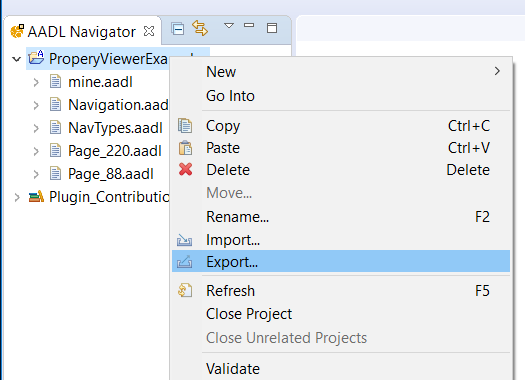
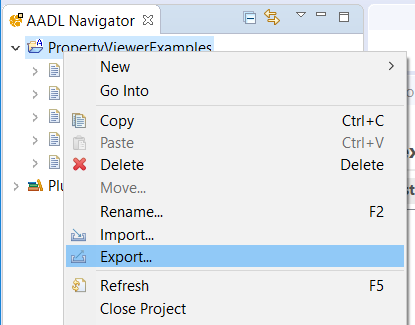
Fixed a bunch of problems related to the fact that I had misnamed the example property "ProperyViewerExamples" (without the 't').

diff --git a/org.osate.help/markdown/OSATEUserGuide.html b/org.osate.help/markdown/OSATEUserGuide.html
@@ -16,7 +16,7 @@
 <li>A row of toolbars along the top.</li><li>A <em>navigator</em> view along the left-hand side.  This view displays all the available projects and their contents.  OSATE uses a customized <code>AADL Navigator</code> that also displays globally available AADL property sets provided by plug-ins.</li><li>An <em>outline</em> view on the right-hand side.  This view interacts with the active editor window and displays a structured semantic or syntactic outline of the contents of the editor.  It can be used to quickly navigate the contents of the editor.</li><li>The <code>Problems</code> view along the bottom.  This view is used to interact with markers.</li></ul><p>The rest of the center space of the workbench is used to hold editor windows.  This layout can be seen in the workbench window below that is set to the OSATE <code>AADL</code> perspective:</p><p><img src="images/OSATEUserGuide/workbench.png" alt="Workbench"></p><p>There are several other features of the workbench visible in the above image:</p><ul>
 <li>Views can have their own toolbars.</li><li>Views can be stacked into tabbed layouts.  This is visible along the bottom of the workbench where there are tabs for the <code>Problems</code>, <code>Properties</code>, and <code>AADL Property Values</code> views.</li><li>Views can have their own menus.  The menu is accessible by clicking on the downward facing triangle in the top right of the toolbar of the view: <img src="images/OSATEUserGuide/ViewMenu.png" alt="">.</li><li>Views can be minimized or maximized within the workbench window using the toolbar buttons <img src="images/OSATEUserGuide/MinMax.png" alt="">.</li><li>Views can be closed by clicking on the “x” icon on their tab.</li></ul><h4 id="commands"><a name="commands" href="#commands"></a>Commands</h4><p>As an Eclipse-based application, OSATE makes its commands available in multiple modalities.  A single command is usually available</p><ul>
 <li>In an OSATE menu.</li><li>In a toolbar.</li><li>In a context menu, when appropriate to the currently selected object.  (A context menu is uaually opened with a right-click in Windows, or a <code>CTRL</code> + click in MacOS.)</li></ul><h4 id="missing-views"><a name="missing-views" href="#missing-views"></a>Missing Views</h4><p>If you accidently close a view or simply want to add an additional view to the workbench, you can open a view by using the <code>Window &gt; Show View</code> submenu in the main OSATE menubar:</p><p><img src="images/OSATEUserGuide/ShowView.png" alt="Show View Menu"></p><p>This menu is populated with views specific to the current perspective.  Here we see the <code>AADL Navigator</code> and <code>AADL Property Values</code> views specific to the <code>AADL</code> perspective.  If you do not see the view you need listed, choose the <code>Other...</code> option to bring up the <code>Show View</code> dialog:</p><p><img src="images/OSATEUserGuide/ShowViewDialog.png" alt="Show View Dialog"></p><p>This dialog lists all the views avaible.  Views are grouped by category.  Above we see the <code>Error Log</code> view in the <code>General</code> category being selected for use.</p><h4 id="reseting-the-perspective"><a name="reseting-the-perspective" href="#reseting-the-perspective"></a>Reseting the Perspective</h4><p>If you open/close too many views, rearrange your views, or otherwise put the workbench in a state that you find unusable, you can bring it back to good state by resetting the perspective.  In the case of OSATE, you should reset the <code>AADL</code> perspective by bringing up the <em>context menu</em> on the <code>AAADL</code> perspecitive icon on the right side of the workbench toolbar, and selecting <code>reset</code>:</p><p><img src="images/OSATEUserGuide/ResetPerspective.png" alt="Reset Perspective"></p><p>This returns the arrangement of views and editors to a the default layout defined by the perspective.</p><h3 id="osate-preferences"><a name="osate-preferences" href="#osate-preferences"></a>OSATE Preferences</h3><p>OSATE (via its Eclipse underpinnings) has an exhaustive set of preferences that can be changed.  These are accessed via the <code>Preferences</code> window.  Access to preferences follows the host operating system standards:</p><ul>
-<li>For windows, the preferences are under <code>Window &gt; Preferences</code>.</li><li>For MacOS, the prefernece are under <code>OSATE &gt; Preferences...</code>.</li></ul><p>This brings up a window with a hierarchical list of settings on the left-hand side.</p><p>One setting of immediate interest is found under <code>General &gt; Startup and Shutdown</code>.  By default the setting <code>Refresh workspace on startup</code> is not enabled.  Enabling it ensures that when starting up, OSATE updates its records to reflect any changes to the files in the workspace that may have occurred outside OSATE.</p><p><img src="images/OSATEUserGuide/Preferences.png" alt="Preferences Window"></p><h3 id="manual-refresh"><a name="manual-refresh" href="#manual-refresh"></a>Manual Refresh</h3><p>You can manually initiate a refresh by selecting projects, folders, or files in the <code>AADL Navigator</code> and invoking <code>File &gt; Refresh</code> in the main menu or <code>Refresh</code> in the navigator’s context menu.</p><h2 id="creating-an-aadl-project"><a name="creating-an-aadl-project" href="#creating-an-aadl-project"></a><span id="project">Creating an AADL Project</span></h2><p>Let us create an AADL Project in OSATE.  To create a new AADL project in the workspace, click on the <code>New AADL Project</code> button <img src="images/OSATEUserGuide/NewAadlProjectButton.png" alt="New AADL Project icon"> in the OSATE toolbar.  A new project wizard will open:</p><p><img src="images/OSATEUserGuide/NewAadlProjectWizard.png" alt="New Project Wizard"></p><p>Enter <code>MyFirstAADLProject</code> as the project name and click on the <code>Finish</code> button.  The wizard creates a new project.  It is visible in the <code>AADL Navigator</code> view.  Note the small <code>A</code> on the project that indicates it is an AADL project:</p><p><img src="images/OSATEUserGuide/NewProjectNavigator.png" alt="New Project Wizard"></p><h3 id="built-in-proprety-sets"><a name="built-in-proprety-sets" href="#built-in-proprety-sets"></a>Built-in Proprety Sets</h3><p>Also visible in the view is a library icon labeled <code>Plugin_Contributions</code>.  This view element collects all the AADL property sets available by default in OSATE:</p><p><img src="images/OSATEUserGuide/Plugin_Contributions.png" alt="Plugin Contributions"></p><p>The <code>Predeclared_Property_Sets</code> are those that are specified by the AADL standard document and are provided by the core OSATE environment.  The others are specified in other documents and provided by plug-ins to OSATE.  For example <code>ARINC653</code> contains property sets specified in the ARINC653 annex to AADL and is provided by a plug-in.</p><p>Property sets in <code>Plugin_Contribution</code> may be used by any project in the workspace by providing the appropriate <code>with</code> clause in the package specification.  In particular, <em>they do not need to be copied into a project to be used</em>.</p><h3 id="creating-an-aadl-package"><a name="creating-an-aadl-package" href="#creating-an-aadl-package"></a>Creating an AADL Package</h3><p>Now that we have an AADL project in the workspace, we can populate it with an AADL Package:</p><ol>
+<li>For windows, the preferences are under <code>Window &gt; Preferences</code>.</li><li>For MacOS, the prefernece are under <code>OSATE &gt; Preferences...</code>.</li></ul><p>This brings up a window with a hierarchical list of settings on the left-hand side.</p><p>One setting of immediate interest is found under <code>General &gt; Startup and Shutdown</code>.  By default the setting <code>Refresh workspace on startup</code> is not enabled.  Enabling it ensures that when starting up, OSATE updates its records to reflect any changes to the files in the workspace that may have occurred outside OSATE.</p><p><img src="images/OSATEUserGuide/Preferences.png" alt="Preferences Window"></p><h3 id="manual-refresh"><a name="manual-refresh" href="#manual-refresh"></a>Manual Refresh</h3><p>You can manually initiate a refresh by selecting projects, folders, or files in the <code>AADL Navigator</code> and invoking <code>File &gt; Refresh</code> in the main menu or <code>Refresh</code> in the navigator’s context menu.</p><h2 id="creating-an-aadl-project"><a name="creating-an-aadl-project" href="#creating-an-aadl-project"></a><span id="project">Creating an AADL Project</span></h2><p>Let us create an AADL Project in OSATE.  To create a new AADL project in the workspace, click on the <code>New AADL Project</code> button <img src="images/OSATEUserGuide/NewAadlProjectButton.png" alt="New AADL Project icon"> in the OSATE toolbar.  A new project wizard will open:</p><p><img src="images/OSATEUserGuide/NewAadlProjectWizard.png" alt="New Project Wizard"></p><p>Enter <code>MyFirstAADLProject</code> as the project name and click on the <code>Finish</code> button.  The wizard creates a new project.  It is visible in the <code>AADL Navigator</code> view.  Note the small <code>A</code> on the project that indicates it is an AADL project:</p><p><img src="images/OSATEUserGuide/NewProjectNavigator.png" alt="New Project Wizard"></p><h3 id="built-in-property-sets"><a name="built-in-property-sets" href="#built-in-property-sets"></a>Built-in Property Sets</h3><p>Also visible in the view is a library icon labeled <code>Plugin_Contributions</code>.  This view element collects all the AADL property sets available by default in OSATE:</p><p><img src="images/OSATEUserGuide/Plugin_Contributions.png" alt="Plugin Contributions"></p><p>The <code>Predeclared_Property_Sets</code> are those that are specified by the AADL standard document and are provided by the core OSATE environment.  The others are specified in other documents and provided by plug-ins to OSATE.  For example <code>ARINC653</code> contains property sets specified in the ARINC653 annex to AADL and is provided by a plug-in.</p><p>Property sets in <code>Plugin_Contribution</code> may be used by any project in the workspace by providing the appropriate <code>with</code> clause in the package specification.  In particular, <em>they do not need to be copied into a project to be used</em>.</p><h3 id="creating-an-aadl-package"><a name="creating-an-aadl-package" href="#creating-an-aadl-package"></a>Creating an AADL Package</h3><p>Now that we have an AADL project in the workspace, we can populate it with an AADL Package:</p><ol>
 <li>Select the project <code>MyFirstAADLProject</code>.</li><li>Click on the <code>New AADL Package</code> button <img src="images/OSATEUserGuide/NewAadlPackageButton.png" alt="New AADL Project icon"> in the OSATE toolbar to bring up the AADL package wizard:<br><img src="images/OSATEUserGuide/AadlPackageWizard.png" alt="AADL Package Wizard"></li><li>Enter<code>aadlmodel</code> for the package name and click on <code>Finish</code>.</li></ol><p>OSATE creates the file <code>aadlmodel.aadl</code> in the project, populates it with a skeleton package declaration, and opens it in the AADL text editor:</p><p><img src="images/OSATEUserGuide/EmptyPackage.png" alt="New Empty Package"></p><p>Note that the wizard has radio buttons that allow you to specify whether the package should be opened in the text editor or the graphical editor.  By default the text editor is selected.</p><p>Replace the contents of the editor with the simple model below:</p><pre><code data-origin="<pre><code>package aadlmodel
 public
     process MyProcess
@@ -49,7 +49,7 @@ end aadlmodel;
 <p>The list of completions also shows two more options.   These are <em>templates</em> that insert a more complete system type or system implementation declaration into the text.</p>
 </li><li><p>Autocompletion also works with declared names.  For example, below shows the result of activating autocomplete after typing <code>My</code>:<br><img src="images/OSATEUserGuide/AutoComplete2.png" alt="Autocomplete"><br>In this case, autocomplete suggests the system type name <code>MySystem</code>.  In particular, it <em>does not</em> suggest the process type name <code>MyProcess</code> because it would be erroneous in the context of declaraing a system implementation.</p>
 </li></ul><h4 id="error-markers"><a name="error-markers" href="#error-markers"></a>Error Markers</h4><p>As you type you will notice that the editor underlines syntax errors in red.  The right sidebar of the editor will also show a small red<code>x</code> indicating that an <em>error marker</em> exists for that line of text.  For example, before the declaration of the system implementation is completed, the package has several errors:</p><p><img src="images/OSATEUserGuide/Errors.png" alt="Error Markers"></p><p>The details of the error markers are visible in the <code>Problems</code> view.  This is a standard Eclipse view.  Despite the name <em>Problems</em>, not all markers necessarily mark problems or errors.  Some OSATE analsyses generate information markers (visible with a blue <code>i</code>) as output.</p><p>The details of a marker can also be seen by hovering over the icon in the editor sidebar.</p><p>Also note that the AADL project is marked in the navigator view to indicate that its contents have error markers.</p><h4 id="save-the-package"><a name="save-the-package" href="#save-the-package"></a><span id="save">Save the Package</span></h4><p>Once you have the package entered into the editor, save it.  It should be error-free, without any markers:</p><p><img src="images/OSATEUserGuide/FinalPackage.png" alt="Good Package"></p><h2 id="navigating-a-model"><a name="navigating-a-model" href="#navigating-a-model"></a><span id="navigation">Navigating a Model</span></h2><p>OSATE provides many mechanisms for navigating through a model.</p><h3 id="the-`outline`-view"><a name="the-`outline`-view" href="#the-`outline`-view"></a>The <code>Outline</code> View</h3><p>The <code>Outline</code> view shows the model in the text editor as a tree structure. Selecting an element in the outline view causes the editor to move to that object in the text. You can disable this synchronization between the outline and the text with the double arrow button in the view’s toolbar. You can also have the view sorted alphabetically instead of the order in the text by selecting the “a to z” icon.</p><p><img src="images/OSATEUserGuide/OutlineToolbar.png" alt="Outline View Toolbar"></p><h3 id="search"><a name="search" href="#search"></a>Search</h3><p>You can search the text of a model using the standard Eclipse search facility under <code>Search &gt; Search...</code> in the menu bar.  This brings up a search window.  It can also be used for search and replace.  The scope of the search can also be specified.  In most cases you just want to make sure that the <code>File Search</code> tab is selected, and enter your search term in the <code>Containing text</code> field.  For example, the below will search for the string <code>end</code> in the project we created above:</p><p><img src="images/OSATEUserGuide/SearchWindow.png" alt="Search Window"></p><p>When you click on the <code>Search</code> button, Eclipse performs the search.  The results are displayed in the <code>Search</code> view:</p><p><img src="images/OSATEUserGuide/SearchView.png" alt="Search View"></p><p>Double-clicking on a result in the view opens the editor to the location of the match.  All the matches are highlighted in the editor as well.</p><h3 id="hyperlinks"><a name="hyperlinks" href="#hyperlinks"></a>Hyperlinks</h3><p>All references to names in the AADL editor are linked to their declaration.  <code>CTRL</code>-clicking on the name will turn it into an active hyperlink and move the editor selection to the declaration of the name.  For example, <code>CTRL</code>-clicking on <code>MyProcess</code> in the subcomponent declaration of <code>MySystem</code> <a href="#save">above</a>, moves the selection to the declaration of <code>MyProcess</code> earlier in the package.</p><h3 id="quick-outline"><a name="quick-outline" href="#quick-outline"></a>Quick Outline</h3><p>A <em>quick outline</em> can be brought up in the AADL text editor by typing <code>CTRL + o</code>.  The package outline will appear in a small window with a search box.  You can filter the displayed outline elements by typing in the search box:</p><p><img src="images/OSATEUserGuide/QuickOutline.png" alt="Quick Outline"></p><p>Selecting an item in the outline will move the editor to the selected element.</p><h3 id="navigation-history"><a name="navigation-history" href="#navigation-history"></a>Navigation History</h3><p>Much like a web browser, when you navigate to different locations within a file, follow references/links to other files, go to the location of a marker, or go to the result of a search, Eclipse keeps a history. Yellow navigation arrow buttons in the toolbar let you move back and forth through the history:</p><p><img src="images/OSATEUserGuide/NavigationHistory.png" alt="Navigation Toolbar"></p><h2 id="instance-models"><a name="instance-models" href="#instance-models"></a><span id="instance">Instance Models</span></h2><p>Most analyses are executed over the <em>instance model</em> of a system.  The instance model represnts the complete nested architecture of a system, and is built from a root system implementation classifier.</p><p>To create an instance model of your system</p><ol>
-<li>Open the AADL package that conatins the system implementation you want to instantiate.  For this example, we open <code>aadlmodel</code> from <a href="#save">above</a>.</li><li>Select the system implementation in the <code>Outline</code> view.  Here we select <code>MySystem.i</code>.</li><li>Select <code>Instantiate</code> from the context menu.<br><img src="images/OSATEUserGuide/Instantiate.png" alt="Context Menu"></li></ol><p>The instance model is created and placed in directory called <code>instances</code> in the project.  This directory is created if it does not already exist.  The instance model built from system implementation <code>my::package::system.impl</code> is named <code>my_package_systemm_impl_Instance.aaxl2</code>.  This is an xml-based model description that is not readily readable by people.  It can be opened and viewed in a hierachical manner in OSATE.  Here we see the model we just generated:</p><p><img src="images/OSATEUserGuide/InstanceModel.png" alt="Context Menu"></p><h3 id="back-links"><a name="back-links" href="#back-links"></a>Back-links</h3><p>Each element in the instance model links back to declarative model element that it is derived from.  You can follow this link by selecting an element of the instance model in the instance model editor or in the <code>Outline</code> view and choosing <code>Goto Instance Object Source</code> in the context menu.  For example, the process <code>sub1</code> element of the instance model links to the <code>sub1</code> subcomponent declaration in the declarative package:</p><p><img src="images/OSATEUserGuide/ObjectSource.png" alt="Context Menu"></p><h3 id="errors"><a name="errors" href="#errors"></a>Errors</h3><p>The instantiation process may generate error and warning markers on the instantiated model.  This occurs, for example, when the declarative model is underspecified or has inconsistencies.</p><h2 id="importing-and-exporting-projects"><a name="importing-and-exporting-projects" href="#importing-and-exporting-projects"></a><span id="in_out">Importing and Exporting Projects</span></h2><p>Eclipse can import/export projects from/to <code>.zip</code> files.  This is a simple way to share your work with other users, but not the best approach for collaborative work where you would want to use a version control system.</p><h3 id="how-to-import-a-project"><a name="how-to-import-a-project" href="#how-to-import-a-project"></a><span id="import">How To Import a Project</span></h3><p>Here we show how to import an AADL project containing <code>.aadl</code> model files, but these instructions are not specific to OSATE or working with AADL source files.</p><blockquote>
+<li>Open the AADL package that conatins the system implementation you want to instantiate.  For this example, we open <code>aadlmodel</code> from <a href="#save">above</a>.</li><li>Select the system implementation in the <code>Outline</code> view.  Here we select <code>MySystem.i</code>.</li><li>Select <code>Instantiate</code> from the context menu.<br><img src="images/OSATEUserGuide/Instantiate.png" alt="Context Menu"></li></ol><p>The instance model is created and placed in directory called <code>instances</code> in the project.  This directory is created if it does not already exist.  The instance model built from system implementation <code>my::package::system.impl</code> is named <code>my_package_systemm_impl_Instance.aaxl2</code>.  This is an xml-based model description that is not readily readable by people.  It can be opened and viewed in a hierachical manner in OSATE.  Here we see the model we just generated:</p><p><img src="images/OSATEUserGuide/InstanceModel.png" alt="Context Menu"></p><h3 id="back-links"><a name="back-links" href="#back-links"></a>Back-links</h3><p>Each element in the instance model links back to declarative model element that it is derived from.  You can follow this link by selecting an element of the instance model in the instance model editor or in the <code>Outline</code> view and choosing <code>Goto Instance Object Source</code> in the context menu.  For example, the process <code>sub1</code> element of the instance model links to the <code>sub1</code> subcomponent declaration in the declarative package:</p><p><img src="images/OSATEUserGuide/ObjectSource.png" alt="Context Menu"></p><h3 id="errors"><a name="errors" href="#errors"></a>Errors</h3><p>The instantiation process may generate error and warning markers on the instantiated model.  This occurs, for example, when the declarative model is underspecified or has inconsistencies.</p><h2 id="importing-and-exporting-projects"><a name="importing-and-exporting-projects" href="#importing-and-exporting-projects"></a><span id="in_out">Importing and Exporting Projects</span></h2><p>Eclipse can import/export projects from/to <code>.zip</code> files.  This is a simple way to share your work with other users, but not the best approach for collaborative work where you would want to use a <a href="#git">version control system</a>.  </p><h3 id="how-to-import-a-project"><a name="how-to-import-a-project" href="#how-to-import-a-project"></a><span id="import">How To Import a Project</span></h3><p>Here we show how to import an AADL project containing <code>.aadl</code> model files, but these instructions are not specific to OSATE or working with AADL source files.</p><blockquote>
 <p><strong>Example</strong></p>
 <p>In this section we import a project into the workspace from the archive file <a href="examples/PropertyViewerExamples.zip">PropertyViewerExamples.zip</a>.  Please use the link to download the file to follow along with the instructions below.</p>
 </blockquote><h4 id="open-the-import-wizard"><a name="open-the-import-wizard" href="#open-the-import-wizard"></a>Open the Import Wizard</h4><p>Open the import wizard by selecting <code>Import...</code> from the context menu of the <code>AADL Navigator</code> view:</p><p><img src="images/HowToImportAProject/ContextMenu_Import.png" alt=""></p><p>You should see a dialog like this:</p><p><img src="images/HowToImportAProject/ImportWizard1.png" alt=""></p><p>Select <code>General &gt; Existing Projects into Workspace</code>, and click on the <code>Next &gt;</code> button.</p><p><img src="images/HowToImportAProject/ImportWizard2.png" alt=""></p><h4 id="select-the-project-archive"><a name="select-the-project-archive" href="#select-the-project-archive"></a>Select the Project Archive</h4><p>An <code>Import Projects</code> wizard dialog will open.  (An archive may contain more than one project, although in our example it contains just one.)</p><ol>
@@ -60,20 +60,44 @@ end aadlmodel;
 <p>In this section we export the project that we imported into the workspace in the <a href="#import">previous</a> section.  Below it is assumed that you have a project named <code>PropertyViewerExamples</code> in your workspace.</p>
 </blockquote><h4 id="open-the-export-wizard"><a name="open-the-export-wizard" href="#open-the-export-wizard"></a>Open the Export Wizard</h4><p>Open the export wizard by </p><ol>
 <li>Selecting the project <code>PropertyViewerExamples</code> in the <code>AADL Navigator</code>.</li><li>Selecting <code>Export...</code> from the context menu.</li></ol><p><img src="images/HowToExportAProject/ContextMenu_Export.png" alt=""></p><p>You should see a dialog like this:</p><p><img src="images/HowToExportAProject/ExportWizard1.png" alt=""></p><p>Select <code>General &gt; Archive File</code>, and click on the <code>Next &gt;</code> button.</p><p><img src="images/HowToExportAProject/ExportWizard2.png" alt=""></p><h4 id="create-the-archive"><a name="create-the-archive" href="#create-the-archive"></a>Create the Archive</h4><p>An <code>Archive file</code> wizard dialog will open.</p><ul>
-<li>The top section of the wizard allows you to choose the exact contents of the project to export.  In this case, as in most cases, you do not need to change the default selections; the whole project will be exported.</li><li>The bottom section of the wizard allows to control how the archive file is created.  Again, usually the default values are fine.  In this case, just make sure that <code>Save in zip format</code> is selected.</li><li>In the center of the wizard enter the pathname of the archive file to create, or use the <code>Browse...</code> button to use the file selection dialog to specify the pathname.</li><li>Click on the <code>Finish</code> button to begin the export process.</li></ul><p><img src="images/HowToExportAProject/ArchiveFile.png" alt=""></p><h4 id="use-your-new-archive"><a name="use-your-new-archive" href="#use-your-new-archive"></a>Use Your New Archive</h4><p>The wizard dialog will close when the export process finishes.  The new archive file will be created where you specified.  You can now share this archive with other users.</p><h2 id="analyzing-models"><a name="analyzing-models" href="#analyzing-models"></a><span id="analysis">Analyzing Models</span></h2><p>Once you have a system model, you can use OSATE to analyze the model to confirm that the design meets your intended criteria.  In this section we run a latency analysis over the end-to-end flows of a system.  This section is not meant to be a tutorial on using any specific analysis, but instead is a demonstration of</p><ul>
+<li>The top section of the wizard allows you to choose the exact contents of the project to export.  In this case, as in most cases, you do not need to change the default selections; the whole project will be exported.</li><li>The bottom section of the wizard allows to control how the archive file is created.  Again, usually the default values are fine.  In this case, just make sure that <code>Save in zip format</code> is selected.</li><li>In the center of the wizard enter the pathname of the archive file to create, or use the <code>Browse...</code> button to use the file selection dialog to specify the pathname.</li><li>Click on the <code>Finish</code> button to begin the export process.</li></ul><p><img src="images/HowToExportAProject/ArchiveFile.png" alt=""></p><h4 id="use-your-new-archive"><a name="use-your-new-archive" href="#use-your-new-archive"></a>Use Your New Archive</h4><p>The wizard dialog will close when the export process finishes.  The new archive file will be created where you specified.  You can now share this archive with other users.</p><h3 id="importing-a-project-from-a-git-repository"><a name="importing-a-project-from-a-git-repository" href="#importing-a-project-from-a-git-repository"></a><span id="git">Importing a Project from a Git Repository</span></h3><p>While archive files provide a quick-and-dirty mechanism for sharing projects, the become problematic when you want to collaborate.  It is better to store projects in a version control system (VCS) so that changes to the models can be coordianted.  Eclipse (and thus OSATE) supports all the popular VCS, including <strong>svn</strong> and <strong>git</strong>.  In this section, we show how to import a project from a git repository.</p><h4 id="clean-up-your-workspace-(removing-a-project)"><a name="clean-up-your-workspace-(removing-a-project)" href="#clean-up-your-workspace-(removing-a-project)"></a>Clean Up Your Workspace (Removing a Project)</h4><p>We are going to reimport the <code>PropertyViewerExamples</code> project, but this time using git.  So if you already have the project in your workspace from the <a href="#import">previous section</a>, you will need to delete it:</p><ol>
+<li><p>Select the project in the <code>AADL Navigator</code>.</p>
+</li><li><p>Select <code>Delete</code> in the context menu.<br><img src="images/OSATEUserGuide/DeleteContextMenu.png" alt="Context Menu"><br>(You can also use the <code>Delete</code> key as a shortcut.)</p>
+</li><li><p>OSATE presents a confirmation dialog box.  Make sure to check <code>Delete project contents on disk</code>:<br><img src="images/OSATEUserGuide/DeleteDialog.png" alt="Confirmation dialog"></p>
+</li><li><p>Click on <code>OK</code>.</p>
+</li></ol><p>OSATE removes the project from the workspace and deletes the contents of the workspace from the file system.</p><h3 id="adding-a-git-repository"><a name="adding-a-git-repository" href="#adding-a-git-repository"></a>Adding a Git Repository</h3><h4 id="open-the-git-perspective"><a name="open-the-git-perspective" href="#open-the-git-perspective"></a>Open the Git Perspective</h4><p>Work with git repositories is performed in the <code>git</code> perspective.  Open and switch to the perspective by</p><ol>
+<li><p>Clicking on the <code>Open Perspective</code> button <img src="images/OSATEUserGuide/OpenPerspective.png" alt=""> on the top right of the toolbar.</p>
+</li><li><p>Choose <code>Git</code> in the <code>Open Perspective</code> dialog:<br><img src="images/OSATEUserGuide/PerspectiveDialog.png" alt="Perspectives Dialog"></p>
+</li><li><p>Click on <code>Open</code>.</p>
+</li></ol><p>The OSATE workbench reconfigures to show an (empty) list of repositories on the left-hand side:</p><p><img src="images/OSATEUserGuide/GitPerspective.png" alt="Git Perspective"></p><h4 id="clone-a-repository"><a name="clone-a-repository" href="#clone-a-repository"></a>Clone a Repository</h4><p>You need to clone a repository before you can import a project from it.  In this case, we are going to clone the AADL examples repository.</p><ol>
+<li><p>Click on the <code>Clone repository</code> <img src="images/OSATEUserGuide/Clone.png" alt=""> button in the toolbar of the <code>Git Repositories</code> view.</p>
+</li><li><p>The clone wizard opens.  Enter the URI of the repository in the <code>URI</code> field.  In this case we use <code>https://github.com/osate/examples</code>.  The wizard automatically fills in the <code>Host</code> and <code>Repository path</code> fields.</p>
+<p>Because you only need read access to the examples, you do not need to enter a user name or password.  In general, however, your repositories will probably require authentication and you would enter the credentials here.</p>
+<p>Click on <code>Next &gt;</code></p>
+<p><img src="images/OSATEUserGuide/CloneDialog.png" alt="Wizard"></p>
+</li><li><p>The wizard now asks which branches to clone.  Here there is only one: <code>master</code>.  </p>
+<p>Leave it selected and click on <code>Next &gt;</code>.</p>
+<p><img src="images/OSATEUserGuide/BranchSelection.png" alt="Wizard"></p>
+</li><li><p>The wizard now asks where to store the cloned repository.  The default location is in the <code>git</code> directory in the the root of your user directory.  There is generally no reason to change this.</p>
+<p>Click on <code>Finish</code>.</p>
+<p><img src="images/OSATEUserGuide/LocalDestination.png" alt="Wizard"></p>
+</li></ol><p>OSATE now clones the repository.  This may take a few minutes.  When it is finished, the repository appears in the <code>Git Repositories</code> view.</p><p><img src="images/OSATEUserGuide/Cloned.png" alt="Wizard"></p><h3 id="import-a-project"><a name="import-a-project" href="#import-a-project"></a>Import a Project</h3><p>Now that the repository is cloned, we can import a project from it into the workspace:</p><ol>
+<li><p>Select the project to import in the <code>Git Repositories</code> view.  In this case we select <code>PropertyViewerExamples</code> under the <code>Working Tree</code>.</p>
+</li><li><p>Open the context menu and choose <code>Import Projects...</code>.</p>
+<p><img src="images/OSATEUserGuide/ImportProjects.png" alt="Context Menu"></p>
+</li><li><p>The import projects wizard opens.  Just click on <code>Finish</code>.</p>
+<p><img src="images/OSATEUserGuide/ImportProjectsWizard.png" alt="Context Menu"></p>
+</li></ol><p>OSATE imports the shared project into your workspace.</p><h3 id="return-to-the-aadl-perspective"><a name="return-to-the-aadl-perspective" href="#return-to-the-aadl-perspective"></a>Return to the AADL Perspective</h3><p>Return to the <code>AADL</code> perspective by clicking on the <code>AADL Perspective</code> button <img src="images/OSATEUserGuide/AadlPerspectiveButton.png" alt=""> on the top-right of the workbench toolbar.</p><p><img src="images/OSATEUserGuide/ImportedGitProject.png" alt="AADL View"></p><p>The imported project is visible in the <code>AADL Navigator</code> view.  It is annotated with a small orange cylinder that indicates the contents are under version control.  The project label itself is also annotated indicating the the contents come from the <em>example</em> repository and are from the <em>master</em> branch.</p><p>You can now proceed to use the project in your workspace. </p><h2 id="analyzing-models"><a name="analyzing-models" href="#analyzing-models"></a><span id="analysis">Analyzing Models</span></h2><p>Once you have a system model, you can use OSATE to analyze the model to confirm that the design meets your intended criteria.  In this section we run a latency analysis over the end-to-end flows of a system.  This section is not meant to be a tutorial on using any specific analysis, but instead is a demonstration of</p><ul>
 <li>How to execute a typical analysis over a model.</li><li>Typical ways an analysis may report results.</li></ul><blockquote>
 <p><strong>Example</strong></p>
-<p>This section uses the project <code>latency-case-study</code> found in the archive <a href="examples/latency-case-study.zip"><code>latency-case-study.zip</code></a>.  Follow the <a href="#import">instructions above</a> to import the project into your workspace.</p>
+<p>This section uses the project <a href="https://github.com/osate/examples/tree/master/latency-case-study"><code>latency-case-study</code></a> found in the <code>examples</code> git repository.  Follow the <a href="#git">instructions above</a> to import the project into your workspace.</p>
 </blockquote><h3 id="instantiate-the-model"><a name="instantiate-the-model" href="#instantiate-the-model"></a>Instantiate the Model</h3><p>The latency analysis operates on the system instance model, so we first need to create an instance model:</p><ol>
 <li>Open the package <code>integration</code>.</li><li>Use the <code>Outline</code> view to create an instance model from the system implementation <code>integration.software_integrated</code>.</li></ol><h3 id="analyze-the-model"><a name="analyze-the-model" href="#analyze-the-model"></a>Analyze the Model</h3><ol>
 <li>Select the new <code>.aaxl2</code> instance model file in the project.</li><li>Select <code>Analyses &gt; Timing &gt; Check Flow Latency</code> from the main menu to execute the latency analysis:<br><img src="images/OSATEUserGuide/FlowLatencyMenu.png" alt=""></li></ol><p>The analysis executes and you may see a progress bar at the bottom of the OSATE workbench.</p><h3 id="analysis-results"><a name="analysis-results" href="#analysis-results"></a>Analysis Results</h3><p>The analysis generates results in two ways:</p><ul>
 <li>As warning and errors markers.</li><li>As files in the <code>reports/latency</code> directory of the project.</li></ul><p>The analysis reports 4 error markers and 2 warning markers:</p><p><img src="images/OSATEUserGuide/LatencyMarkers.png" alt="Latency Analysis Markers"></p><p>Here we see that the end-to-end flows <code>etef0</code> and <code>etef1</code> fail to meet the expected latency contraints.</p><ul>
 <li>Double-clicking on the markers will open the flow element in the instance model editor.</li><li>From there you can use the <code>Goto Instance Object Source</code> command to jump to the AADL source where the flows are declared.</li></ul><p>The files in the <code>reports</code> directory contain more specific results (in three different formats).  Below shows a portion of the <code>.csv</code> file opened in a spreadsheet application:</p><p><img src="images/OSATEUserGuide/Latency_CSV.png" alt="CSV Results"></p><p>Here we see the full results for the end-to-end flow <code>etef0</code>, includingng individual components’ contributions to the latency.</p><h2 id="aadl-property-values"><a name="aadl-property-values" href="#aadl-property-values"></a><span id="properties">AADL Property Values</span></h2><p>The <code>AADL Property Values</code> view is used to display and edit property values in a structured manner, which is often easier than navigating and manipulating the AADL text files directly.</p><blockquote>
 <p><strong>Example</strong></p>
-<p>The packages used as examples in this section can be imported into your workspace from the archive <a href="examples/PropertyViewerExamples.zip">PropertyViewerExamples.zip</a>.  Please see the help section on importing projects into the Eclipse workspace.</p>
-<p>Alternatively, you can view the AADL files directly:</p>
-<ul>
-<li><a href="examples/PropertyViewExampeles/mine.aadl">mine.aadl</a></li><li><a href="examples/PropertyViewExampeles/Navigation.aadl">Navigation.aadl</a></li><li><a href="examples/PropertyViewExampeles/NavTypes.aadl">NavTypes.aadl</a></li><li><a href="examples/PropertyViewExampeles/Page_88.aadl">Page_88.aadl</a></li><li><a href="examples/PropertyViewExampeles/Page_220.aadl">Page_220.aadl</a></li></ul>
+<p>The packages used as examples in this section can be imported into your workspace from the <a href="https://github.com/osate/examples/tree/master/ProperyViewerExamples"><code>PropertyViewerExamples</code></a> project in the <code>examples</code> git repository.  Please see the help section on <a href="#git">importing projects into the Eclipse workspace</a>.</p>
 </blockquote><p>Below is an example of the view in action.  It is displaying the properties of the process subcomponent <code>Sampler_B</code> of system implementation <code>Software.Basic</code> in project <code>Page_220</code>.</p><p><span id="values1"><img src="images/AadlPropertyValues/ExampleScreenshot.png" alt="Example Screenshot"></span></p><h3 id="opening-the-aadl-property-values-view"><a name="opening-the-aadl-property-values-view" href="#opening-the-aadl-property-values-view"></a>Opening the AADL Property Values View</h3><p>From the main menu, select <code>Window &gt; Show View</code>.  If OSATE is currently in the <code>AADL perspective</code>, then you can select <code>AADL Property Values</code>.</p><p><img src="images/AadlPropertyValues/Window_View_AadlPropertyValues.png" alt="Example Screenshot"></p><p>If you are not in the <code>AADL Perspective</code>, select <code>Other...</code> to bring up the <code>Show View</code> dialog box:</p><p><img src="images/AadlPropertyValues/Window_View_Other.png" alt="Example Screenshot"></p><p>Choose <code>AADL &gt; AADL Property Values</code> and click on the <code>Open</code> button.</p><p><img src="images/AadlPropertyValues/ShowView.png" alt="Example Screenshot"></p><h3 id="selecting-the-model-element"><a name="selecting-the-model-element" href="#selecting-the-model-element"></a>Selecting the Model Element</h3><p>The view displays all of the properties of the AADL model element that is currently selected in the worksapce.  Selections can be made in the editor or in the outline view.  For example, to show the properties of the process subcomponent <code>Sampler_B</code> of system implementation <code>Software.Basic</code> in project <code>Page_220</code> as shown above, you can </p><ul>
 <li>Open <code>Page_220</code> in the editor and move the text cursor to be within the syntax for subcomponent <code>Sampler_B</code>.</li></ul><p>or</p><ul>
 <li>Select <code>Sampler_B</code> in the <code>Outline</code> view.</li></ul><h3 id="property-value-structure"><a name="property-value-structure" href="#property-value-structure"></a>Property Value Structure</h3><p>The displayed properties are organized by property set.</p><blockquote>

diff --git a/org.osate.help/markdown/OSATEUserGuide.md b/org.osate.help/markdown/OSATEUserGuide.md
@@ -459,7 +459,7 @@ You need to clone a repository before you can import a project from it.  In this
 
   ![Wizard](images/OSATEUserGuide/CloneDialog.png)
 
-3. The wizard now asks which brances to clone.  Here there is only one: `master`.  
+3. The wizard now asks which branches to clone.  Here there is only one: `master`.  
 
    Leave it selected and click on `Next >`.
    
@@ -571,7 +571,7 @@ The `AADL Property Values` view is used to display and edit property values in a
 
 > **Example**
 >
-> The packages used as examples in this section can be imported into your workspace from the [`PropertyViewExamples`](https://github.com/osate/examples/tree/master/ProperyViewerExamples) project in the `examples` git repository.  Please see the help section on [importing projects into the Eclipse workspace](#git).
+> The packages used as examples in this section can be imported into your workspace from the [`PropertyViewerExamples`](https://github.com/osate/examples/tree/master/ProperyViewerExamples) project in the `examples` git repository.  Please see the help section on [importing projects into the Eclipse workspace](#git).
 
 Below is an example of the view in action.  It is displaying the properties of the process subcomponent `Sampler_B` of system implementation `Software.Basic` in project `Page_220`.
 
